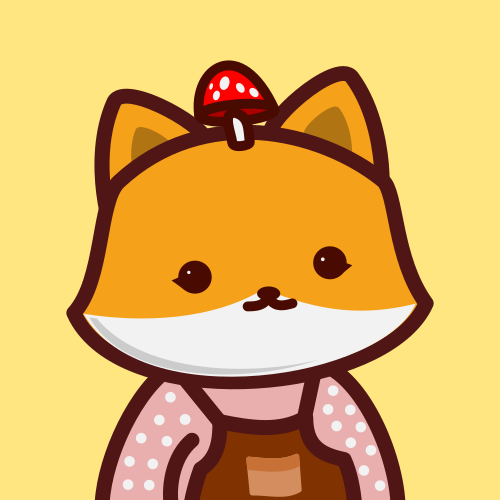
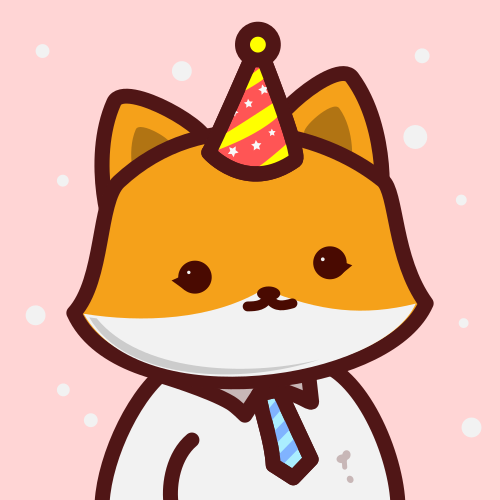
new clothes and hats

diff --git a/streamlit_app.py b/streamlit_app.py
@@ -20,8 +20,9 @@ if project == 'Foxiez':
 
     list_background = ['rice', 'pink', 'yellow', 'green', 'blue-dots', 'green-dots', 'yellow-dots', 'snow']
     list_expressions = ['default-smile', 'eyes-closed', 'frown', 'kawaii-smile', 'sad', 'sleepy', 'sophisticated', 'wink']
-    list_hats = ['none', 'brim-bucket', 'bucket', 'mushroom', 'strawhat']
-    list_clothings = ['default-body', 'apron', 'blue-collar-shirt', 'blue-tie', 'fish-tshirt', 'red-collar-shirt', 'scarf']
+    list_hats = ['none', 'brim-bucket', 'bucket', 'birthday-hat', 'chef-hat', 'crown', 'mushroom', 'poop', 'propeller-hat', 'straw-hat']
+    list_clothings = ['default-body', 'apron', 'stripe-apron', 'blue-collar-shirt', 'blue-hoodie', 'blue-tie',
+                      'fish-tshirt', 'pink-hoodie', 'poop-tshirt', 'red-collar-shirt', 'scarf']
 
     col1, col2 = st.columns(2)
     option_expressions = col1.selectbox('Expressions', list_expressions)
